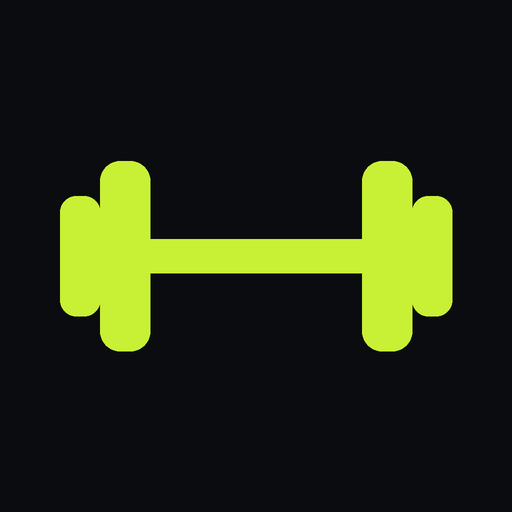
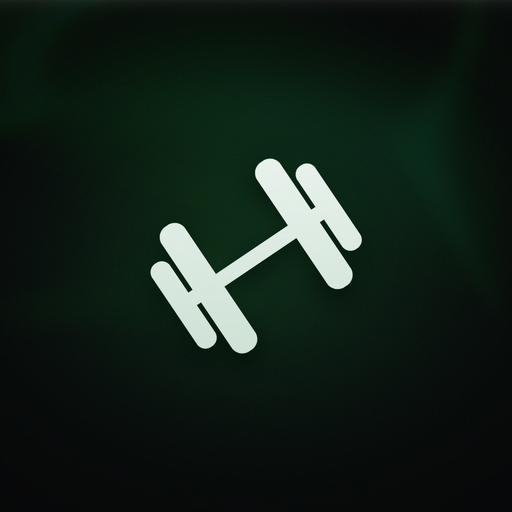
Nuova icona scura minimale
Claude-Session: https://claude.ai/code/session_01HK4HKgVCou94mENysarbi4

Changed region(s): [[0.0938, 0.1562, 0.9062, 0.6875], [0.0938, 0.0, 0.1875, 0.0312]]

diff --git a/sw.js b/sw.js
@@ -1,4 +1,4 @@
-const V="dt-v3";
+const V="dt-v4";
 const FILES=["./","./index.html","./manifest.webmanifest","./icon-192.png","./icon-512.png","./apple-touch-icon.png","./bg-d1.jpg","./bg-d2.jpg","./bg-d3.jpg","./bg-n.jpg"];
 self.addEventListener("install",e=>{e.waitUntil(caches.open(V).then(c=>c.addAll(FILES)).then(()=>self.skipWaiting()));});
 self.addEventListener("activate",e=>{e.waitUntil(caches.keys().then(ks=>Promise.all(ks.filter(k=>k!==V).map(k=>caches.delete(k)))).then(()=>self.clients.claim()));});
